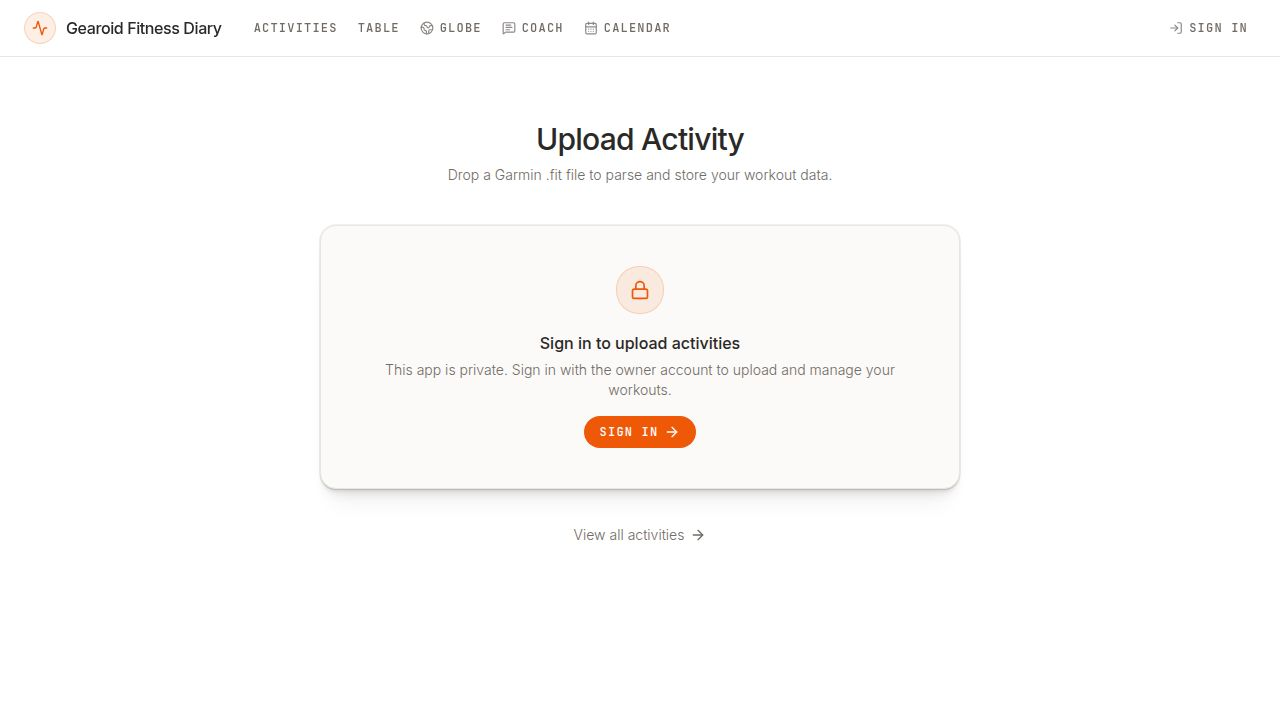
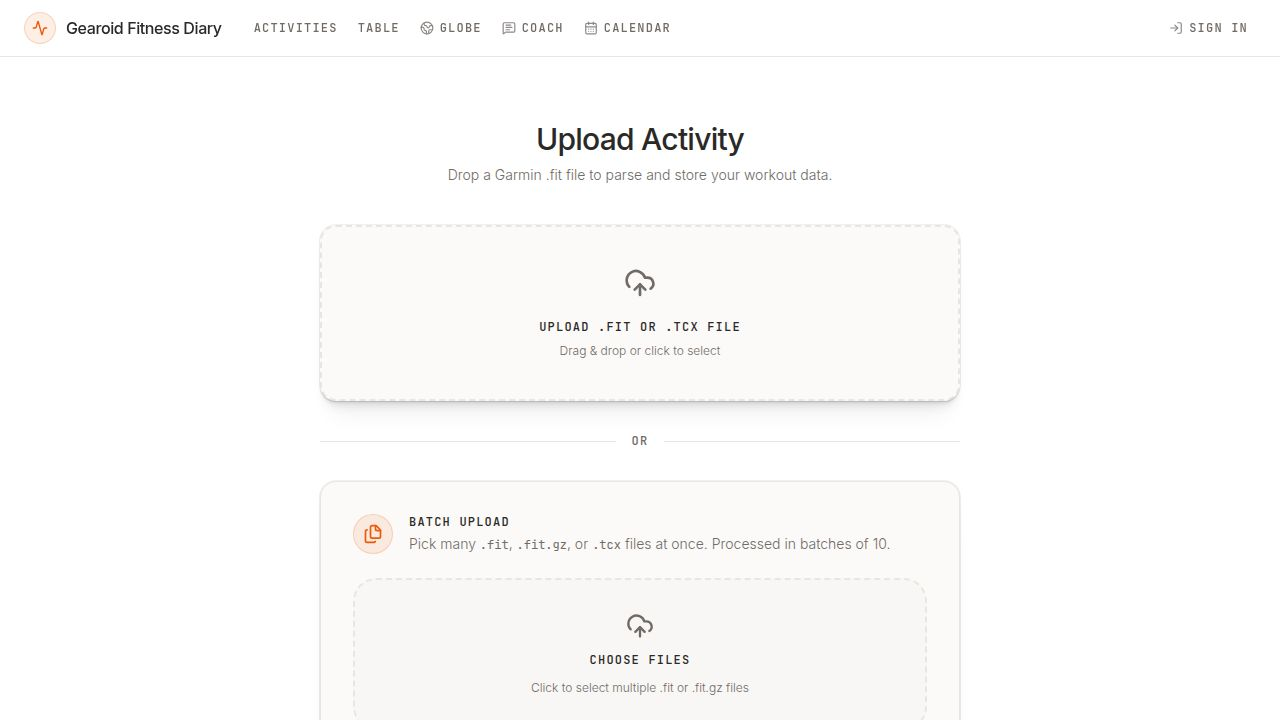
Task #24: Upload page always visible, login triggered on upload attempt
- Removed the auth gate in UploadSection on the home page that previously
  hid the upload zones and showed a SignInPrompt for unauthenticated visitors.
- UploadSection now always renders both UploadZone and BatchUploadZone,
  regardless of auth state. The useAllowedStatus hook and SignInPrompt
  component are no longer used by home.tsx and were removed from that file.
- Added optional onUnauthenticated?: () => void prop to UploadZone. When a
  401 is received from the upload endpoint and the prop is provided, it is
  called instead of setting the internal needsSignIn state (which previously
  replaced the drop zone with an inline sign-in prompt).
- Added the same onUnauthenticated prop to BatchUploadZone. When provided,
  a 401 calls it instead of switching to the needs_signin phase.
- Home page passes goToSignIn (setLocation("/sign-in")) as onUnauthenticated
  to both zones, so unauthenticated users are redirected to /sign-in the
  moment they attempt an upload.
- Authenticated users are unaffected; upload flow is unchanged for them.
- No changes to any other page, route, or auth flow.

Replit-Task-Id: ec0a8a47-652d-4704-900c-6b4d76d806aa

Changed region(s): [[0.25, 0.3667, 0.75, 0.6417], [0.25, 0.6722, 0.75, 0.7639], [0.4062, 0.8556, 0.5938, 0.9778]]

diff --git a/artifacts/fitness-tracker/src/pages/home.tsx b/artifacts/fitness-tracker/src/pages/home.tsx
@@ -1,57 +1,24 @@
 import { Layout } from "@/components/layout";
 import { UploadZone } from "@/components/upload-zone";
 import { BatchUploadZone } from "@/components/batch-upload-zone";
-import { Link } from "wouter";
-import { ArrowRight, Lock } from "lucide-react";
-import { useAllowedStatus } from "@/hooks/use-allowed-status";
-
-function SignInPrompt() {
-  return (
-    <div className="rounded-2xl border border-border bg-card shadow-card p-10 flex flex-col items-center text-center gap-4">
-      <div className="w-12 h-12 rounded-xl bg-primary/10 border border-primary/20 flex items-center justify-center">
-        <Lock className="w-5 h-5 text-primary" />
-      </div>
-      <div>
-        <div className="font-medium text-foreground mb-1">Sign in to upload activities</div>
-        <p className="text-sm text-muted-foreground">
-          This app is private. Sign in with the owner account to upload and manage your workouts.
-        </p>
-      </div>
-      <Link href="/sign-in">
-        <span className="inline-flex items-center gap-1.5 px-4 py-2 rounded-full bg-primary text-primary-foreground text-sm label-mono hover:bg-primary/90 transition-colors cursor-pointer">
-          Sign in
-          <ArrowRight className="w-4 h-4" />
-        </span>
-      </Link>
-    </div>
-  );
-}
+import { Link, useLocation } from "wouter";
+import { ArrowRight } from "lucide-react";
 
 function UploadSection() {
-  const status = useAllowedStatus();
+  const [, setLocation] = useLocation();
+  const goToSignIn = () => setLocation("/sign-in");
 
-  if (status.state === "loading") return null;
-
-  if (status.state === "not_signed_in") {
-    return <SignInPrompt />;
-  }
-
-  if (status.state === "allowed") {
-    return (
-      <>
-        <UploadZone />
-        <div className="flex items-center gap-4 my-8">
-          <div className="flex-1 h-px bg-border" />
-          <span className="label-mono text-muted-foreground text-[11px]">or</span>
-          <div className="flex-1 h-px bg-border" />
-        </div>
-        <BatchUploadZone />
-      </>
-    );
-  }
-
-  // wrong_email: auto sign-out is handled globally in App.tsx — show prompt while signing out
-  return <SignInPrompt />;
+  return (
+    <>
+      <UploadZone onUnauthenticated={goToSignIn} />
+      <div className="flex items-center gap-4 my-8">
+        <div className="flex-1 h-px bg-border" />
+        <span className="label-mono text-muted-foreground text-[11px]">or</span>
+        <div className="flex-1 h-px bg-border" />
+      </div>
+      <BatchUploadZone onUnauthenticated={goToSignIn} />
+    </>
+  );
 }
 
 export default function Home() {

diff --git a/artifacts/fitness-tracker/src/components/batch-upload-zone.tsx b/artifacts/fitness-tracker/src/components/batch-upload-zone.tsx
@@ -48,7 +48,11 @@ function chunk<T>(arr: T[], size: number): T[][] {
   return out;
 }
 
-export function BatchUploadZone() {
+interface BatchUploadZoneProps {
+  onUnauthenticated?: () => void;
+}
+
+export function BatchUploadZone({ onUnauthenticated }: BatchUploadZoneProps = {}) {
   const [phase, setPhase] = useState<Phase>("idle");
   const [batchIndex, setBatchIndex] = useState(0);
   const [batchTotal, setBatchTotal] = useState(0);
@@ -130,7 +134,11 @@ export function BatchUploadZone() {
         });
 
         if (resp.status === 401) {
-          setPhase("needs_signin");
+          if (onUnauthenticated) {
+            onUnauthenticated();
+          } else {
+            setPhase("needs_signin");
+          }
           if (fileInputRef.current) fileInputRef.current.value = "";
           return;
         }

diff --git a/artifacts/fitness-tracker/src/components/upload-zone.tsx b/artifacts/fitness-tracker/src/components/upload-zone.tsx
@@ -10,7 +10,11 @@ import { useToast } from "@/hooks/use-toast";
 import { Link, useLocation } from "wouter";
 import { cn } from "@/lib/utils";
 
-export function UploadZone() {
+interface UploadZoneProps {
+  onUnauthenticated?: () => void;
+}
+
+export function UploadZone({ onUnauthenticated }: UploadZoneProps = {}) {
   const [isDragging, setIsDragging] = useState(false);
   const [isPending, setIsPending] = useState(false);
   const [isSuccess, setIsSuccess] = useState(false);
@@ -69,7 +73,11 @@ export function UploadZone() {
       });
 
       if (resp.status === 401) {
-        setNeedsSignIn(true);
+        if (onUnauthenticated) {
+          onUnauthenticated();
+        } else {
+          setNeedsSignIn(true);
+        }
         return;
       }
 
